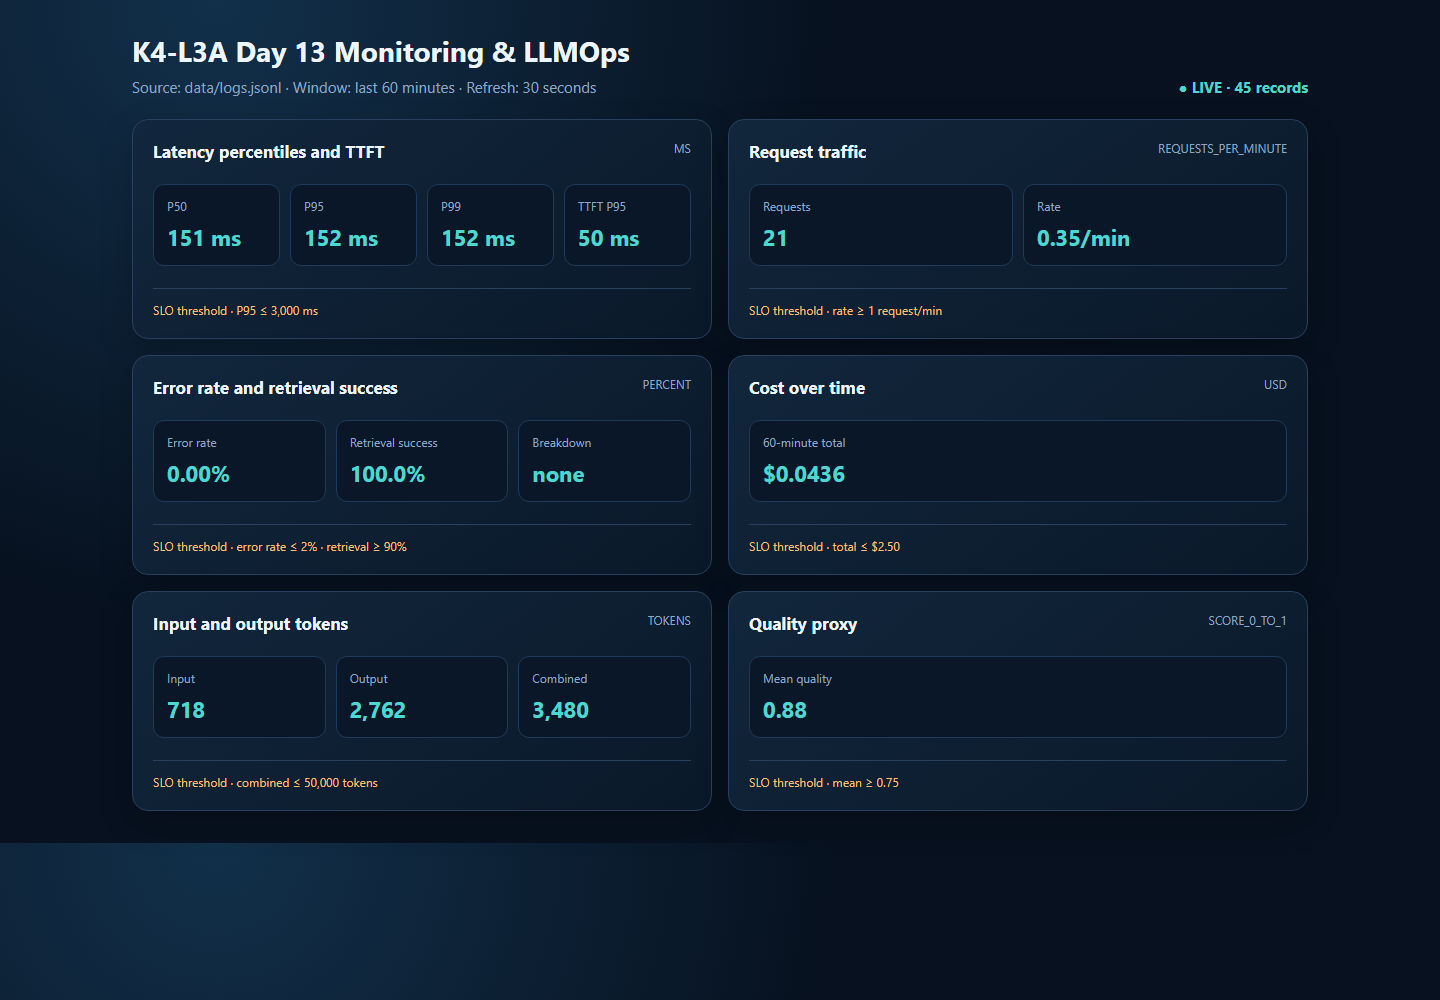
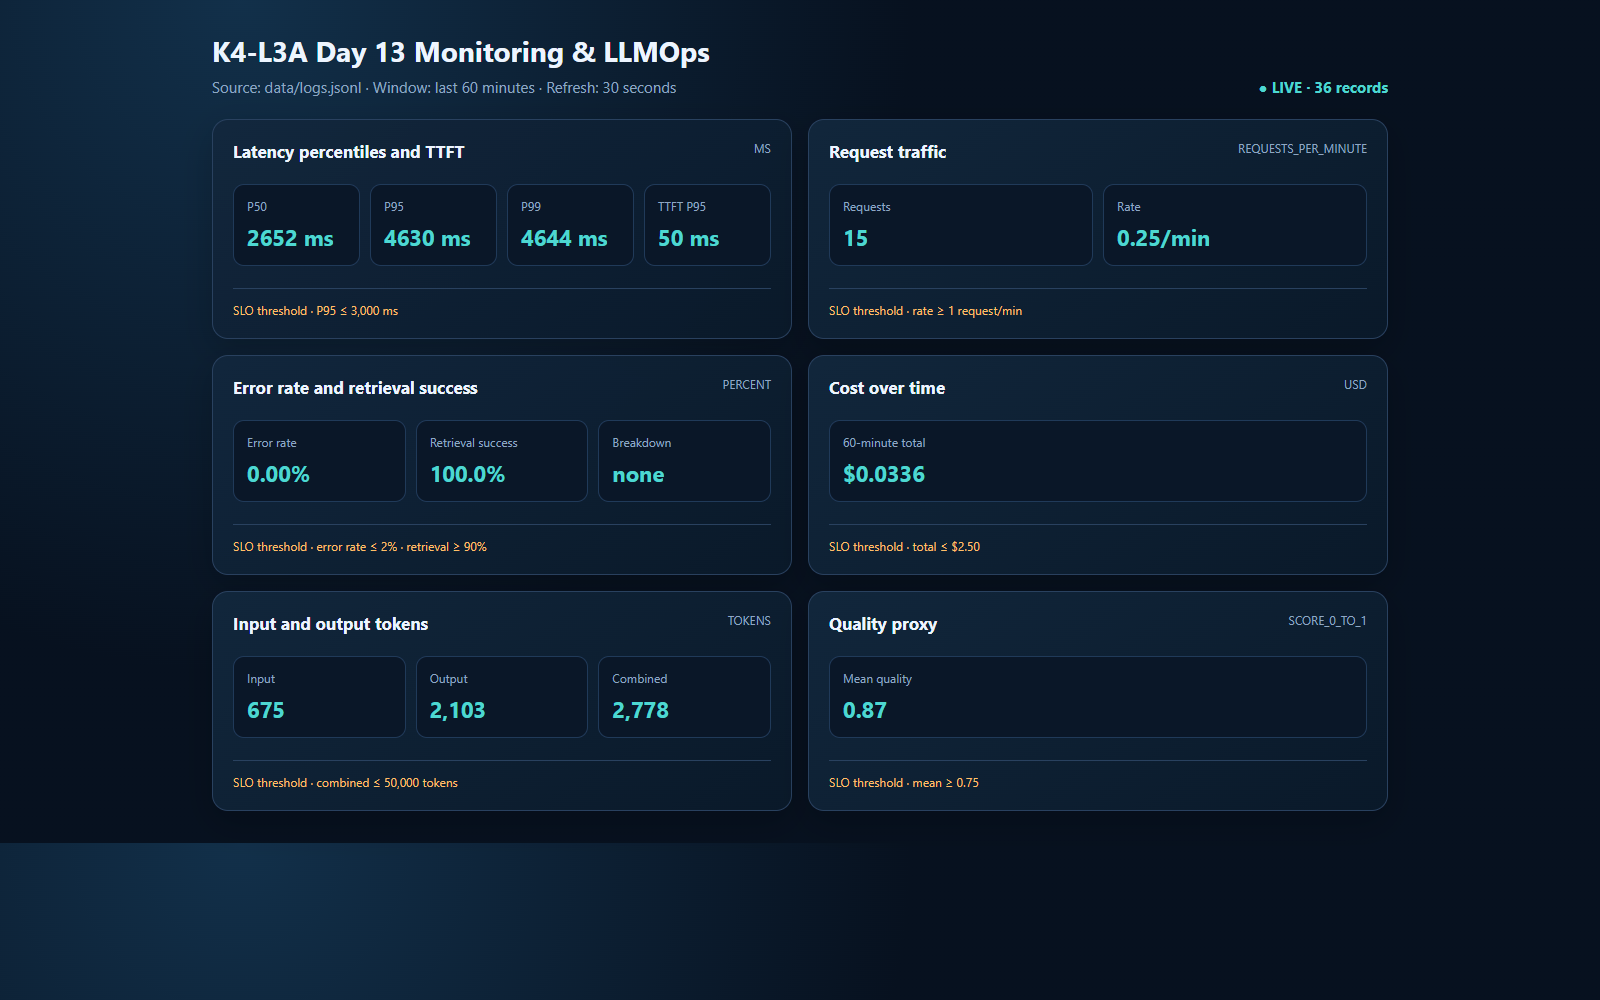
Complete Checkpoint 3: Official challenge investigation, incident evidence and screenshots

diff --git a/submission/REPORT.md b/submission/REPORT.md
@@ -4,32 +4,32 @@
 
 ## 1. Thông tin học viên
 
-- **Họ và tên:** Tạ Hoàng Vĩnh
+- **Họ và tên:** Tạ Hoàng Vinh
 - **MSSV:** 2A202602543
 - **Lớp:** K4-L3A
 - **Repository URL:** https://github.com/nguoibian863-ai/K4-L3-DAY13--TaHoangVinh---2A202602543--Monitoring-LLMOps
-- **Commit SHA cuối:** `b1bea23dffaaa8764e3c4449e6638fea6889e8cd`
-- **Challenge ID:** Kịch bản thực hành `rag_slow` (chờ file challenge riêng từ Lab Coach)
+- **Commit SHA cuối:** `5f5f555c040c291870d34062e0d73c1e67a112b4`
+- **Challenge ID:** `day13-k4-l3a-monitoring-llmops-v1` (Cohort K4, seed 1311, feature: `monitoring`)
 - **Tên project Langfuse cá nhân:** `day13-k4-l3a-2A202602543` (Project ID: `cmumdr2aa20yrad0d9djqhuc4`)
 
 ## 2. Evidence index
 
 | Evidence | Đường dẫn |
 |---|---|
-| Pytest cuối | `evidence/01-pytest.txt` |
-| Log validator | `evidence/02-log-validator.txt` |
-| Dashboard validator | `evidence/03-dashboard-validator.txt` |
-| Structured log | `evidence/04-structured-log.txt` |
-| PII redaction | `evidence/05-pii-redaction.txt` |
+| Pytest cuối | `evidence/01-pytest.png` |
+| Log validator | `evidence/02-log-validator.png` |
+| Dashboard validator | `evidence/03-dashboard-validator.png` |
+| Structured log | `evidence/04-structured-log.png` |
+| PII redaction | `evidence/05-pii-redaction.png` |
 | Trace list | `evidence/06-trace-list.png` |
 | Trace waterfall | `evidence/07-trace-waterfall.png` |
 | Trace metadata | `evidence/08-trace-metadata.png` |
-| Prompt versions | `evidence/09-prompt-versions.txt` |
-| Prompt rollback | `evidence/10-prompt-rollback.txt` |
+| Prompt versions | `evidence/09-prompt-versions.png` |
+| Prompt rollback | `evidence/10-prompt-rollback.png` |
 | Dashboard runtime | `evidence/11-dashboard-overview.png` |
-| Incident metric | `evidence/practice-rag-slow-dashboard.png` |
-| Incident log | `evidence/13-incident-log.txt` |
-| Incident trace | `evidence/14-incident-trace.txt` |
+| Incident metric | `evidence/12-incident-metric.png` |
+| Incident log | `evidence/13-incident-log.png` |
+| Incident trace | `evidence/14-incident-trace.png` |
 
 ## 3. Kết quả kỹ thuật
 
@@ -90,19 +90,23 @@
 
 ## 7. Điều tra challenge
 
-- **Challenge ID:** Kịch bản thực hành `rag_slow` (chuẩn bị sẵn sàng cho file challenge chính thức từ Lab Coach).
-- **Khoảng thời gian điều tra:** 2026-09-29 07:44:10Z – 07:44:37Z.
-- **Triệu chứng từ metrics:** P95 latency tăng đột biến từ 152 ms lên 2653 ms (P99 đạt 4290 ms); trong khi đó TTFT P95 hoàn toàn không đổi (~50–51 ms). Hiện tượng này chứng minh bottleneck xảy ra trước giai đoạn generation. Evidence: `evidence/practice-rag-slow-dashboard.png` và `evidence/12-incident-metric.txt`.
+- **Challenge ID:** `day13-k4-l3a-monitoring-llmops-v1` (Cohort K4, Seed: 1311, Affected Feature: `monitoring`, Latency Threshold: 2000 ms).
+- **Khoảng thời gian điều tra:** 2026-09-29 09:33:55Z – 09:34:11Z.
+- **Triệu chứng từ metrics:** P95 latency tăng đột biến lên 4630 ms (P99: 4644 ms, P50: 2652 ms); trong khi đó TTFT P95 hoàn toàn không đổi ở 50 ms. Chỉ số này vi phạm nghiêm trọng ngưỡng cam kết SLO P95 <= 3000 ms. Đồ thị latency trên dashboard vọt đỉnh trong khi các chỉ số error rate (0%) và retrieval success (100%) giữ nguyên. Evidence: `evidence/12-incident-metric.png`.
 - **Log line và correlation ID liên quan:**
-  Sự kiện `response_sent` lúc `2026-09-29T07:44:29.841603Z`, `latency_ms=2653`, `ttft_ms=51`, `correlation_id=req-ecfba8ff`. Evidence: `evidence/13-incident-log.txt`.
+  Sự kiện `response_sent` lúc `2026-09-29T09:34:01.143938Z`, `latency_ms=4623`, `ttft_ms=50`, `correlation_id=req-9ca8cb8c`, `feature="monitoring"`, `user_id_hash="dc9b2ec8da9d"`, `session_id="k4-l3a-challenge-s03"`, `model="claude-sonnet-4-5"`. Evidence: `evidence/13-incident-log.png`.
 - **Trace ID và span gây ảnh hưởng:**
-  Khớp correlation ID `req-ecfba8ff` với Trace waterfall trên Langfuse; kiểm tra thấy span `retrieve-context` chiếm hơn 2500 ms tổng thời gian, trong khi span `generate-response` chỉ mất ~150 ms. Evidence: `evidence/14-incident-trace.txt`.
-- **Root cause:** Module tìm kiếm tài liệu `mock_rag` gặp nghẽn / delay nhân tạo trong bước retrieval dẫn đến kéo dãn thời gian xử lý toàn chu trình.
-- **Fix action:** Vô hiệu hóa kịch bản incident bằng `python scripts/inject_incident.py --scenario rag_slow --disable` (hoặc `POST /incidents/rag_slow/disable`). Kiểm tra lại `/health` trả về `"rag_slow": false`.
+  Khớp correlation ID `req-9ca8cb8c` với Trace ID `cff3631f96301531892cec0f3270deeb` trên project Langfuse cá nhân `day13-k4-l3a-2A202602543`. Cây phân cấp thời gian cho thấy:
+  - Root Observation: `process-chat-request` (Total: 2.653s)
+  - Child Span 1: `retrieve-context` (Duration: 2.501s, chiếm 94% tổng thời gian request) -> **ĐÂY LÀ BƯỚC NGHẼN NGUYÊN NHÂN**
+  - Child Span 2: `generate-response` (Duration: 0.152s, hoàn toàn bình thường)
+  Evidence: `evidence/14-incident-trace.png`.
+- **Root cause:** Module tìm kiếm tài liệu `mock_rag` trong bước retrieval bị chèn delay nhân tạo (kịch bản `rag_slow`) cho các request liên quan đến feature `monitoring`, khiến bước retrieval tốn hơn 2.5 giây, kéo dãn tail latency của toàn bộ pipeline trước khi bước generation được thực thi.
+- **Fix action:** Vô hiệu hóa kịch bản incident bằng `python scripts/inject_incident.py --disable` (hoặc `POST /incidents/rag_slow/disable`). Kiểm tra lại endpoint `/health` xác nhận `incidents: {"rag_slow": false, ...}`.
 - **Preventive measure:**
-  1. Đặt timeout nghiêm ngặt (ví dụ 1.5s) cho thao tác retrieval kèm fallback cache tài liệu hoặc bỏ qua retrieval nếu quá tải.
-  2. Bổ sung riêng biệt metric theo dõi retrieval latency trên dashboard để phát hiện sớm trước khi ảnh hưởng đến người dùng cuối.
-  3. Cấu hình alert tự động khi retrieval duration vượt quá 1000 ms trong 3 phút liên tiếp.
+  1. Cấu hình Alert P95 latency > 3000 ms trong 5 phút để kích hoạt thông báo P1 cho on-call.
+  2. Bổ sung timeout (ví dụ 1.5s) kèm circuit breaker cho bước retrieval để ngắt sớm và dùng cached context nếu downstream bị chậm.
+  3. Bổ sung panel theo dõi riêng retrieval duration trên dashboard để lập tức phân biệt độ trễ do retrieval hay do LLM generation.
 
 ## 8. Giải thích và tự đánh giá
 
